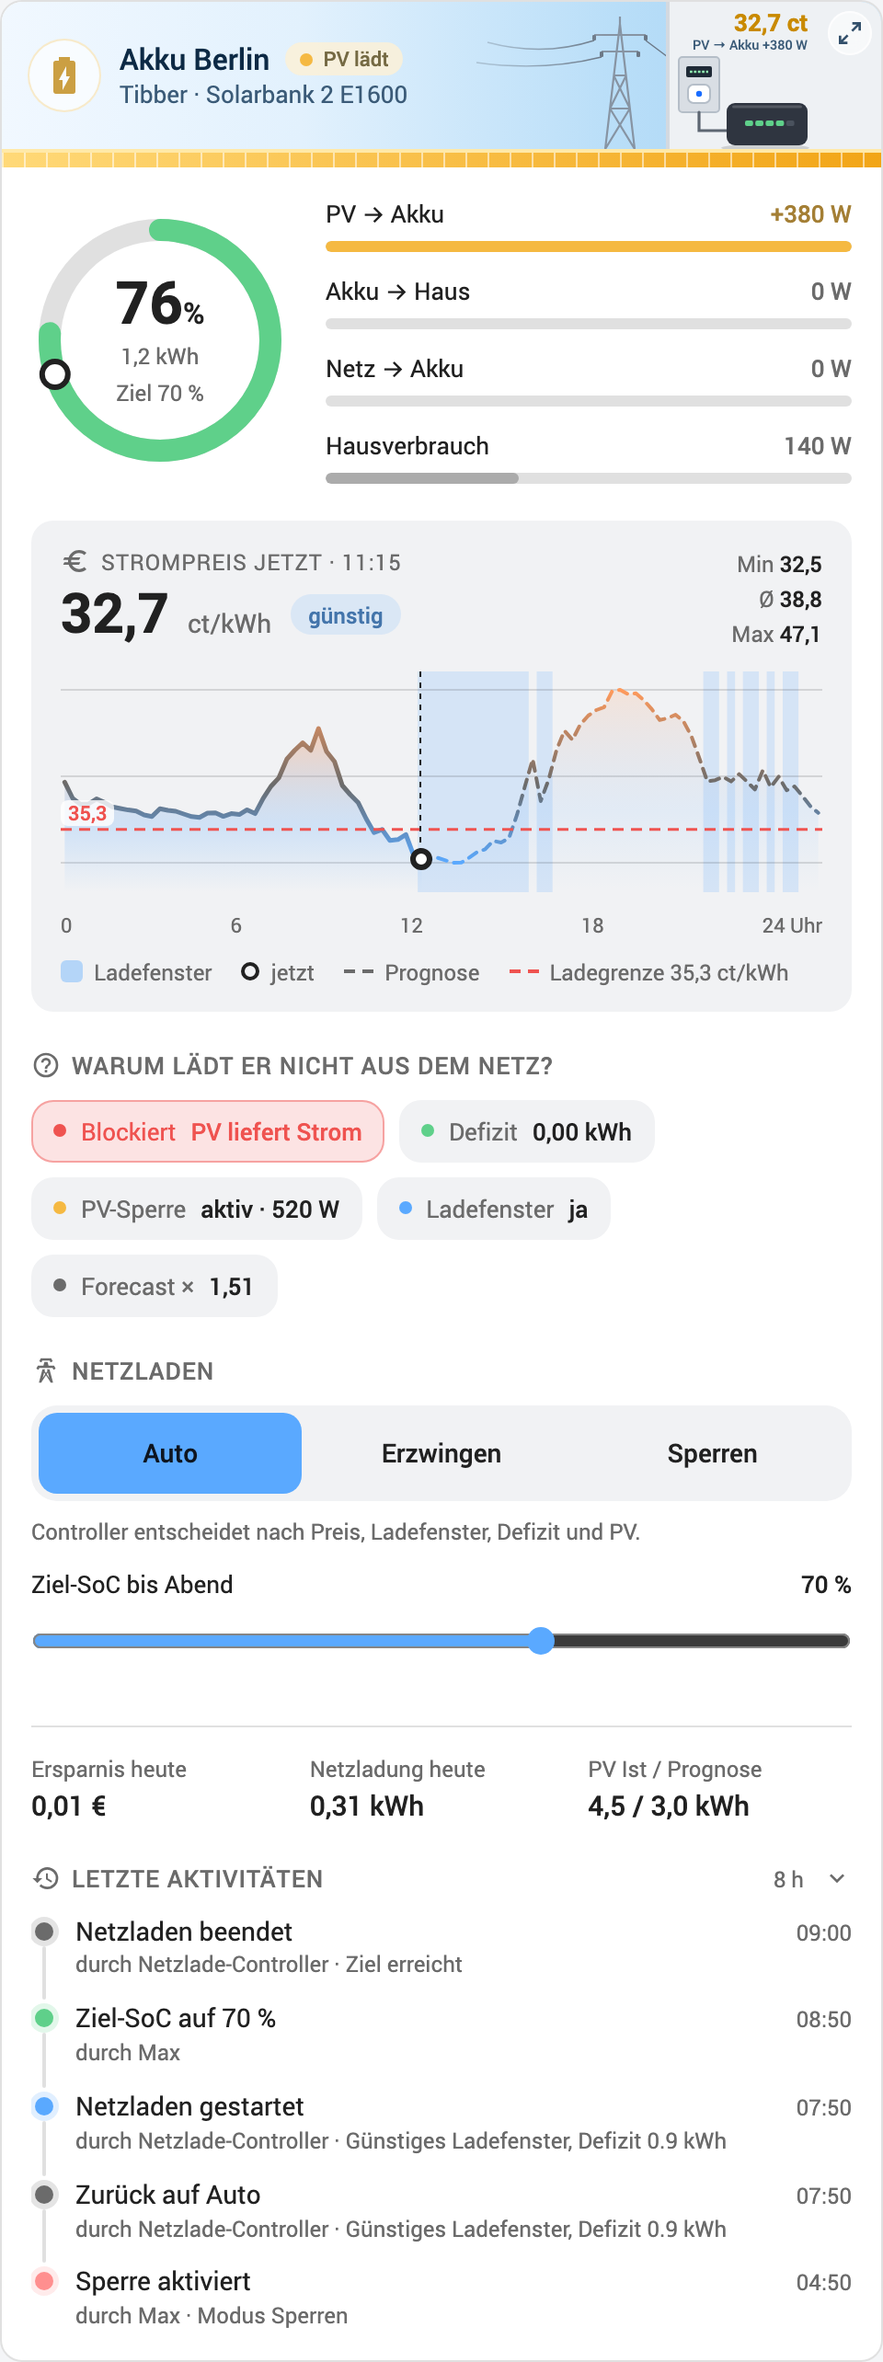
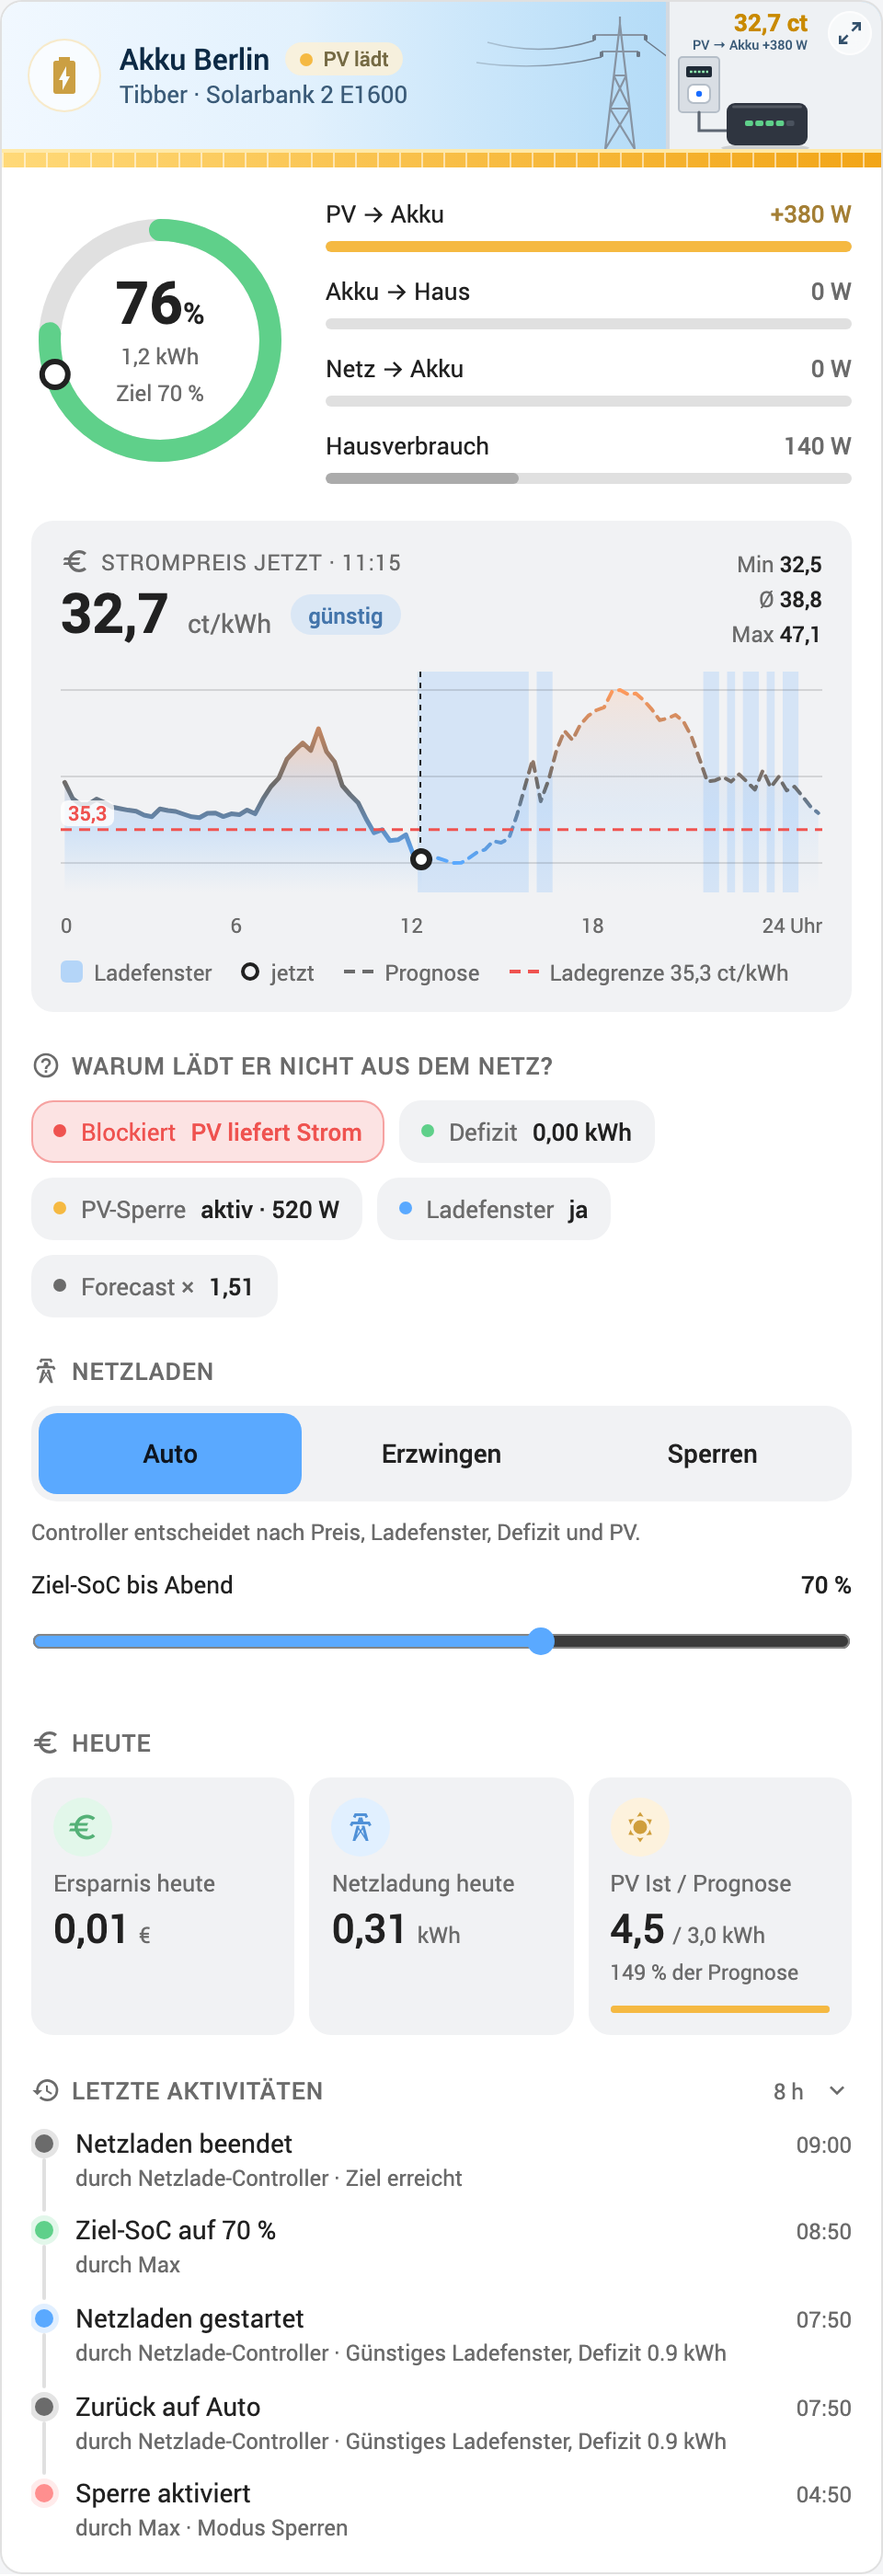
Today as KPI tiles (0.8.0)
The footer becomes the section "Today" with a heading and tiles for savings,
grid charge and PV against the forecast. A figure without a sensor leaves
its tile out and the row closes up; a click opens the sensor's dialog.

Changed region(s): [[0.0, 0.0, 1.0, 1.0]]

diff --git a/src/kpi.js b/src/kpi.js
@@ -1,0 +1,88 @@
+// KPI tiles, as in the energy card's consumers card, the oil and the heating card: a round icon, the label under it, the value
+// large with a small unit, then a sub line and/or a thin bar (with a marker for a target, the reserve or last year).
+// Tiles without a value are left out; the grid never shows a gap: a tile that would not fit the rest of a row and
+// the last tile of a short row widen until the row is full.
+import { esc } from "./shared.js";
+
+// `icon` is an MDI path here, as everywhere in this card.
+const svgIcon = (path) => `<svg class="icon" viewBox="0 0 24 24" aria-hidden="true"><path d="${path}"></path></svg>`;
+
+/**
+ * Column spans so every row is full. `spans` are the wished spans (1 or 2) in order; a tile that does not fit the
+ * rest of its row moves to the next one (as CSS grid does) and the tile before it takes the free columns instead.
+ */
+export function fillRows(spans, cols) {
+  const out = spans.map((s) => Math.max(1, Math.min(cols, s)));
+  let used = 0;
+  for (let i = 0; i < out.length; i++) {
+    if (used + out[i] > cols) {
+      out[i - 1] += cols - used;
+      used = 0;
+    }
+    used = (used + out[i]) % cols;
+  }
+  if (used > 0 && out.length) out[out.length - 1] += cols - used;
+  return out;
+}
+
+const pct = (v) => Math.max(0, Math.min(100, v));
+
+/**
+ * One tile. `k` label, `v` value (HTML-escaped here), `u` unit, `icon`, `c` colour, `p` bar 0–100, `m` marker 0–100,
+ * `s` sub line, `d` badge HTML, `st` "warn" | "bad", `more` entity for Home Assistant's dialog.
+ */
+const tile = (x, s2, s3) => {
+  const tag = x.more ? "button" : "div";
+  const attrs = x.more ? ` type="button" data-more="${esc(x.more)}"` : "";
+  return `<${tag} class="kpi${x.st ? ` ${x.st}` : ""}${x.wide ? " wide" : ""}"${attrs} style="--c:${x.c};--s2:${s2};--s3:${s3}">
+    <span class="ki">${svgIcon(x.icon)}</span>
+    <span class="kk">${esc(x.k)}</span>
+    <span class="kv num">${esc(x.v)}${x.u ? `<small>${esc(x.u)}</small>` : ""}${x.d ? ` ${x.d}` : ""}</span>
+    ${x.s ? `<span class="ks">${esc(x.s)}</span>` : ""}
+    ${Number.isFinite(x.p) ? `<span class="kb"><i style="width:${pct(x.p).toFixed(1)}%"></i>${Number.isFinite(x.m) ? `<b style="left:${pct(x.m).toFixed(1)}%"></b>` : ""}</span>` : ""}
+  </${tag}>`;
+};
+
+/**
+ * A grid of tiles: three columns (two on a narrow card) or always two (`cols: 2`). Tiles whose value is null or
+ * undefined are dropped before the layout, so nothing leaves a hole.
+ */
+export function kpiGrid(list, { cols = 3 } = {}) {
+  const tiles = list.filter((x) => x && x.v !== null && x.v !== undefined && x.v !== "");
+  if (!tiles.length) return "";
+  const want = tiles.map((x) => (x.wide ? 2 : 1));
+  const two = fillRows(want, 2);
+  const three = cols === 3 ? fillRows(want, 3) : two;
+  return `<div class="kpis c${cols}">${tiles.map((x, i) => tile(x, two[i], three[i])).join("")}</div>`;
+}
+
+export const KPI_STYLE = `
+.kpis { display: grid; grid-template-columns: repeat(2, minmax(0, 1fr)); gap: 8px; }
+.kpis.c3 { grid-template-columns: repeat(3, minmax(0, 1fr)); }
+.kpis .kpi { grid-column: span var(--s2); }
+.kpis.c3 .kpi { grid-column: span var(--s3); }
+.kpi { position: relative; display: flex; flex-direction: column; align-items: flex-start; gap: 4px; min-width: 0; padding: 11px 12px 12px;
+       border: 0; border-radius: 12px; background: var(--tb-soft); color: inherit; font: inherit; text-align: left; }
+button.kpi { cursor: pointer; }
+button.kpi:hover { filter: brightness(1.04); }
+.kpi .ki { width: 32px; height: 32px; flex: none; border-radius: 50%; display: grid; place-items: center; margin-bottom: 2px;
+           color: color-mix(in srgb, var(--c) 82%, var(--primary-text-color)); background: color-mix(in srgb, var(--c) 18%, var(--ha-card-background, var(--card-background-color, #fff))); }
+.kpi .ki .icon { width: 18px; height: 18px; }
+.kpi .kk { font-size: 12.5px; line-height: 1.3; color: var(--secondary-text-color); }
+.kpi .kv { font-size: 22px; font-weight: 500; line-height: 1.15; overflow-wrap: anywhere; }
+.kpi.wide .kv { font-size: 28px; }
+.kpi .kv small { display: inline-block; white-space: nowrap; font-size: 12px; font-weight: 400; color: var(--secondary-text-color); margin-left: 4px; }
+.kpi .kv .badge { vertical-align: middle; }
+.kpi .ks { font-size: 11.5px; line-height: 1.35; color: var(--secondary-text-color); }
+.kpi .kb { position: relative; align-self: stretch; height: 4px; margin-top: auto; border-radius: 2px; background: color-mix(in srgb, var(--secondary-text-color) 25%, transparent); }
+.kpi .ks + .kb, .kpi .kv + .kb { margin-top: 6px; }
+.kpi .kb i { position: absolute; left: 0; top: 0; bottom: 0; border-radius: 2px; background: var(--c); }
+.kpi .kb b { position: absolute; top: -3px; bottom: -3px; width: 2px; margin-left: -1px; border-radius: 1px; background: var(--primary-text-color); opacity: .7; }
+.kpi.warn, .kpi.bad { box-shadow: inset 0 0 0 1px color-mix(in srgb, var(--c) 45%, transparent); background: color-mix(in srgb, var(--c) 8%, var(--tb-soft)); }
+.kpi.warn .kv, .kpi.bad .kv { color: color-mix(in srgb, var(--c) 70%, var(--primary-text-color)); }
+@container (max-width: 360px) {
+  .kpis.c3 { grid-template-columns: repeat(2, minmax(0, 1fr)); }
+  .kpis.c3 .kpi { grid-column: span var(--s2); }
+  .kpi.wide .kv { font-size: 24px; }
+}
+`;

diff --git a/src/sections.js b/src/sections.js
@@ -3,6 +3,7 @@
 import { flowRow, historyChart, priceChart, socRing } from "./chart.js";
 import { fmtWhen } from "./activity.js";
 import { BANNER_STYLE, gridScene, readout } from "./banner.js";
+import { KPI_STYLE, kpiGrid } from "./kpi.js";
 import { esc, fmtNum, fmtTime, fmtW, modeHint, priceLimitOf, STATUS_COLOR, statusText } from "./shared.js";
 
 export const ICONS = {
@@ -16,6 +17,7 @@ export const ICONS = {
   chevron: "M7.41,8.58L12,13.17L16.59,8.58L18,10L12,16L6,10L7.41,8.58Z",
   expand:
     "M10,21V19H6.41L10.91,14.5L9.5,13.09L5,17.59V14H3V21H10M14.5,10.91L19,6.41V10H21V3H14V5H17.59L13.09,9.5L14.5,10.91Z",
+  sun: "M12,7A5,5 0 0,1 17,12A5,5 0 0,1 12,17A5,5 0 0,1 7,12A5,5 0 0,1 12,7M12,1L14.39,4.42L12,4L9.61,4.42L12,1M3.5,6.5L7.66,6.14L6,8L5.08,10.25L3.5,6.5M3.5,17.5L5.08,13.75L6,16L7.66,17.86L3.5,17.5M20.5,17.5L16.34,17.86L18,16L18.92,13.75L20.5,17.5M20.5,6.5L18.92,10.25L18,8L16.34,6.14L20.5,6.5M12,23L9.61,19.58L12,20L14.39,19.58L12,23Z",
   clock:
     "M13.5,8H12V13L16.28,15.54L17,14.33L13.5,12.25V8M13,3A9,9 0 0,0 4,12H1L4.96,16.03L9,12H6A7,7 0 0,1 13,5A7,7 0 0,1 20,12A7,7 0 0,1 13,19C11.07,19 9.32,18.21 8.06,16.94L6.64,18.36C8.27,20 10.5,21 13,21A9,9 0 0,0 22,12A9,9 0 0,0 13,3",
   close:
@@ -172,9 +174,6 @@ export const STYLE = `
   .slider input { width: 100%; min-height: 44px; margin: 0; accent-color: var(--tb-grid); cursor: pointer; }
 
   /* Footer */
-  .footer { display: grid; grid-template-columns: repeat(auto-fit, minmax(90px, 1fr)); gap: 8px; border-top: 1px solid var(--tb-track); padding-top: 14px; }
-  .footer .k { font-size: 12px; color: var(--secondary-text-color); }
-  .footer .v { font-size: 15px; font-weight: 500; margin-top: 2px; }
   .clickable { cursor: pointer; }
 
   /* Detail button (header) and expand button (mini card) */
@@ -214,6 +213,8 @@ export const STYLE = `
   .hist + .hist { margin-top: 10px; }
 
 ${BANNER_STYLE}
+${KPI_STYLE}
+  .today .section-title { margin-bottom: 10px; }
   @media (prefers-reduced-motion: reduce) {
     *, *::before, *::after { transition: none !important; animation: none !important; }
   }
@@ -514,39 +515,49 @@ export const controls = (v) => {
     </div>`;
 };
 
+/**
+ * Today's figures as KPI tiles under their own heading: savings, grid charge and PV against the forecast. A figure
+ * without a sensor (or without a value) leaves its tile out; the rows close up.
+ */
 export const footer = (v) => {
   const { t, lang, config } = v;
-  const items = [];
-  if (v.has(config.savings_today_entity)) {
-    const unit = v.hass.states[config.savings_today_entity].attributes?.unit_of_measurement;
-    const cur = !unit || unit === "EUR" || unit === "€" ? "€" : unit;
-    items.push([
-      t("savings_today"),
-      `${fmtNum(v.num(config.savings_today_entity), 2, lang)} ${cur}`,
-      config.savings_today_entity,
-    ]);
-  }
-  if (v.has(config.grid_kwh_today_entity))
-    items.push([
-      t("grid_today"),
-      `${fmtNum(v.num(config.grid_kwh_today_entity), 2, lang)} kWh`,
-      config.grid_kwh_today_entity,
-    ]);
+  const unit = v.has(config.savings_today_entity)
+    ? v.hass.states[config.savings_today_entity].attributes?.unit_of_measurement
+    : null;
+  const cur = !unit || unit === "EUR" || unit === "€" ? "€" : unit;
+  const val = (id, d) => (v.has(id) && v.num(id) != null ? fmtNum(v.num(id), d, lang) : null);
   const pv = v.num(config.pv_today_entity);
   const fc = v.num(config.pv_forecast_today_entity);
-  if (pv != null || fc != null)
-    items.push([
-      t("pv_today"),
-      `${fmtNum(pv, 1, lang)} / ${fmtNum(fc, 1, lang)} kWh`,
-      config.pv_today_entity || config.pv_forecast_today_entity,
-    ]);
-  if (!items.length) return "";
-  return `<div class="footer">${items
-    .map(
-      ([k, val, e]) =>
-        `<div class="clickable" data-more="${esc(e)}"><div class="k">${esc(k)}</div><div class="v">${esc(val)}</div></div>`,
-    )
-    .join("")}</div>`;
+  const tiles = kpiGrid([
+    {
+      k: t("savings_today"),
+      v: val(config.savings_today_entity, 2),
+      u: cur,
+      icon: ICONS.euro,
+      c: "var(--tb-batt)",
+      more: config.savings_today_entity,
+    },
+    {
+      k: t("grid_today"),
+      v: val(config.grid_kwh_today_entity, 2),
+      u: "kWh",
+      icon: ICONS.tower,
+      c: "var(--tb-grid)",
+      more: config.grid_kwh_today_entity,
+    },
+    {
+      k: t("pv_today"),
+      v: pv == null ? null : fmtNum(pv, 1, lang),
+      u: fc == null ? "kWh" : `/ ${fmtNum(fc, 1, lang)} kWh`,
+      icon: ICONS.sun,
+      c: "var(--tb-pv)",
+      p: fc > 0 ? (pv / fc) * 100 : undefined,
+      s: fc > 0 ? t("of_forecast", { v: fmtNum((pv / fc) * 100, 0, lang) }) : "",
+      more: config.pv_today_entity || config.pv_forecast_today_entity,
+    },
+  ]);
+  if (!tiles) return "";
+  return `<div class="today">${title("euro", t("today_title"))}${tiles}</div>`;
 };
 
 // Mini card: ring, name, status pill, "price · level · PV · target", and the expand button.

diff --git a/src/shared.js b/src/shared.js
@@ -92,6 +92,8 @@ export const STRINGS = {
     savings_today: "Ersparnis heute",
     grid_today: "Netzladung heute",
     pv_today: "PV Ist / Prognose",
+    today_title: "Heute",
+    of_forecast: "{v} % der Prognose",
     ring_label: "Ladestand {soc} %, Ziel {target} %",
     open_details: "Details öffnen",
     close: "Schließen",
@@ -183,6 +185,8 @@ export const STRINGS = {
     savings_today: "Savings today",
     grid_today: "Grid charge today",
     pv_today: "PV actual / forecast",
+    today_title: "Today",
+    of_forecast: "{v} % of the forecast",
     ring_label: "State of charge {soc} %, target {target} %",
     open_details: "Open details",
     close: "Close",

diff --git a/README.md b/README.md
@@ -57,7 +57,7 @@ Aufbau und Look orientieren sich an den Karten von [juju35](https://github.com/j
 | `input_datetime` (Datum + Uhrzeit) oder Sensor mit `device_class: timestamp`, in dem deine Automation das Ende von Erzwingen / Sperren ablegt | „Gesperrt bis 13:00“, „zurück auf Auto um …“ | optional |
 | `input_text` (oder Sensor), in den dein Controller den Grund seiner Entscheidung schreibt | Entscheidungszeile über den Chips | optional |
 | `input_number` oder Wert `capacity_kwh` für die Akkukapazität | kWh unter dem Ring | optional |
-| Weitere Sensoren für Defizit, PV-Sperre, Ladefenster, Forecast-Faktor, Ersparnis, Netzladung, PV heute / Prognose | Chips und Fußzeile | optional |
+| Weitere Sensoren für Defizit, PV-Sperre, Ladefenster, Forecast-Faktor, Ersparnis, Netzladung, PV heute / Prognose | Chips und Abschnitt „Heute“ (Kacheln) | optional |
 | **Eigene Automationen**, die Modus und Ziel-SoC auswerten und z. B. die Netzladung der Solarbank schalten | das eigentliche Laden | für eine echte Steuerung |
 
 Fehlt eine Entity oder ist sie `unavailable`, blendet die Karte den zugehörigen Wert, Chip oder Abschnitt aus –
@@ -225,7 +225,7 @@ pv_forecast_today_entity: sensor.energy_production_today
 | `override_until_entity` | Ablauf von Erzwingen / Sperren (`input_datetime` mit Datum + Uhrzeit oder Timestamp-Sensor); liegt er in der Vergangenheit, wird keine Uhrzeit gezeigt | – |
 | `reason_entity` | Klartext-Grund der aktuellen Entscheidung (`input_text` oder Sensor), als erster Chip: rot „Blockiert: …“, solange nicht aus dem Netz geladen wird, blau „Lädt: …“, solange geladen wird | – |
 | `deficit_entity`, `pv_block_entity`, `window_entity`, `forecast_factor_entity` | Chips „Warum lädt er (nicht)?“ (`window_entity` nur, wenn es kein Preisfenster gibt) | – |
-| `savings_today_entity`, `grid_kwh_today_entity`, `pv_today_entity`, `pv_forecast_today_entity` | Fußzeile | – |
+| `savings_today_entity`, `grid_kwh_today_entity`, `pv_today_entity`, `pv_forecast_today_entity` | Abschnitt „Heute“: Kacheln Ersparnis, Netzladung, PV gegen Prognose (ohne Sensor entfällt die Kachel, ohne Lücke) | – |
 | `price_entity` | Preise aus Attributen statt `tibber.get_prices` | – |
 | `price_limit_entity` | Preisgrenze fürs Netzladen als gestrichelte rote Linie im Preisdiagramm, mit Wert in der Legende; eine Entity oder eine Liste (dann gilt die niedrigste, z. B. Schwelle und Vergleichstarif). €-Werte werden in ct umgerechnet | – |
 | `price_today_attribute`, `price_tomorrow_attribute` | Attributnamen | `today`, `tomorrow` |

diff --git a/CHANGELOG.md b/CHANGELOG.md
@@ -1,5 +1,12 @@
 # Changelog
 
+## 0.8.0 (2026-11-20)
+
+- **Today as KPI tiles** (as in the energy, oil and heating cards): the footer becomes the section **Today** with its
+  own heading and tiles for savings, grid charge and PV against the forecast (bar and "149 % of the forecast"). A
+  figure without a sensor or value leaves its tile out and the row closes up; a click opens the sensor's dialog.
+  The section key stays `footer`.
+
 ## 0.7.0 (2026-11-19)
 
 - **Price limit in the chart:** `price_limit_entity` (one entity or a list, the lowest counts) draws the price up to
